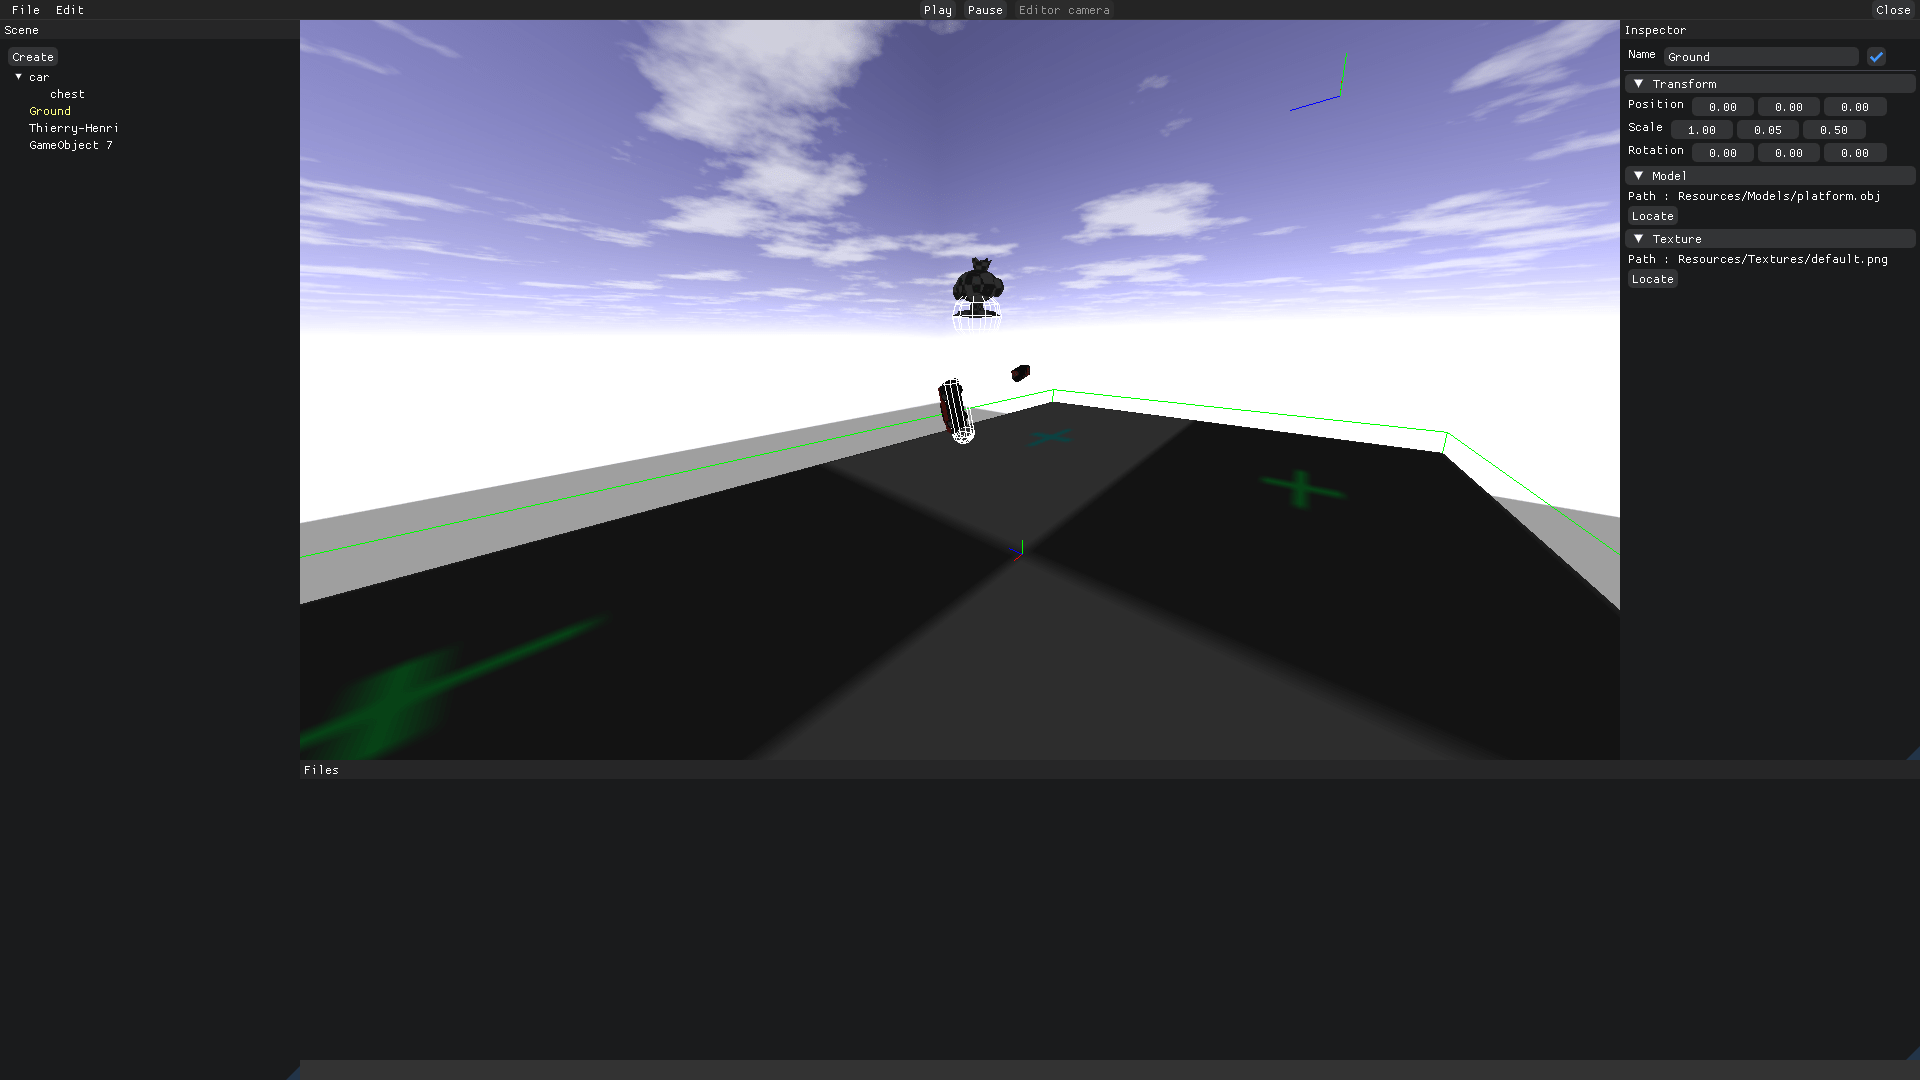
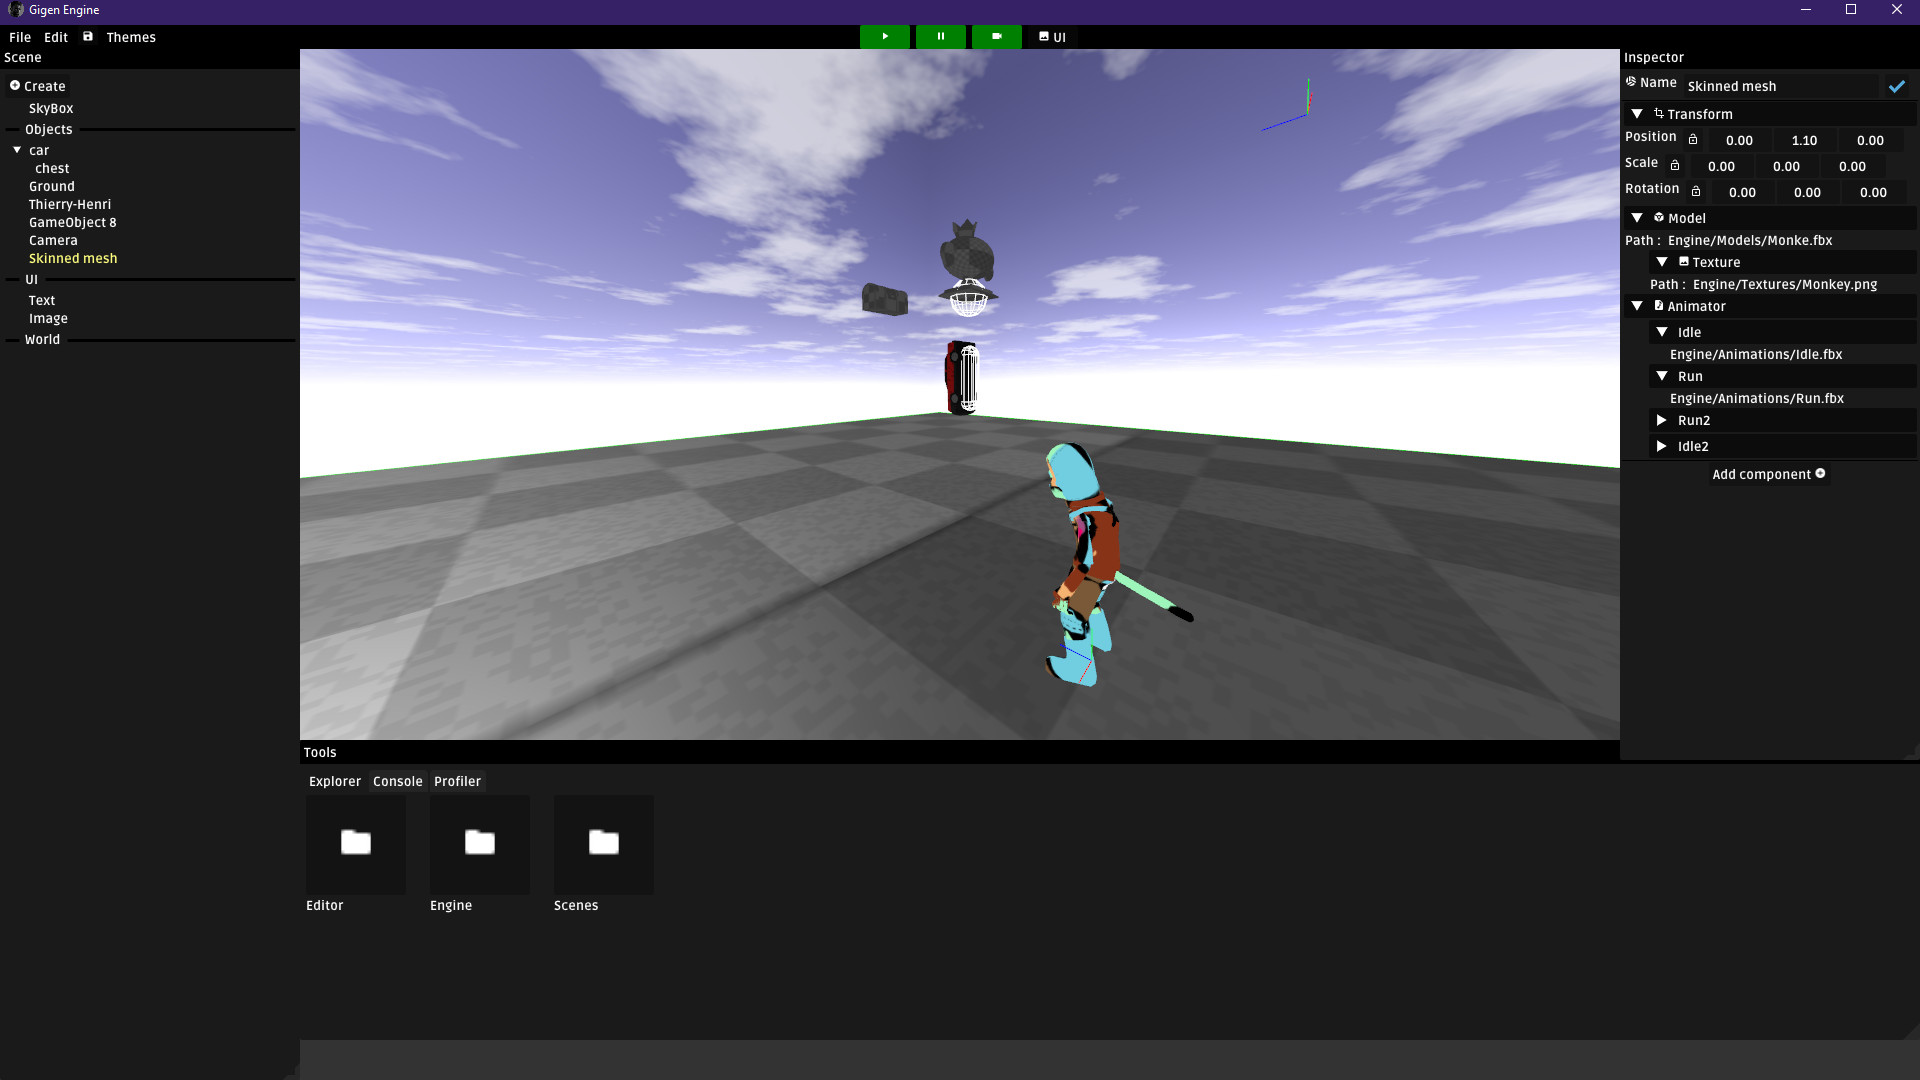
feat: GigenEngine progress update

diff --git a/index.html b/index.html
@@ -70,7 +70,7 @@
 						<h3>Gigengine<span>(WIP)</span></h3>
 						<p>
 							Multithreaded engine in OpenGL 4.6 C++ 20, featuring scripting in lua, physics (with BULLET), and an editor<br><br>
-							<span>Team :</span><br>3 programmers<br><span>Time :</span><br>Ends on June the 1st (3 months)<br><span>My major contributions :</span><br>Scene graph using Quaternions<br>Physics
+							<span>Team :</span><br>3 programmers<br><span>Time :</span><br>Ends on June the 1st (3 months)<br><span>My major contributions :</span><br>Scene graph using Quaternions<br>Skeletal Animation<br>Physics
 						</p>
 						<span>
 						<a href="https://github.com/Kouros26/Gigen-Engine" class="link" target="_blank"><i class="fa-brands fa-github" style="color: #f0f1f3;"></i></a>
